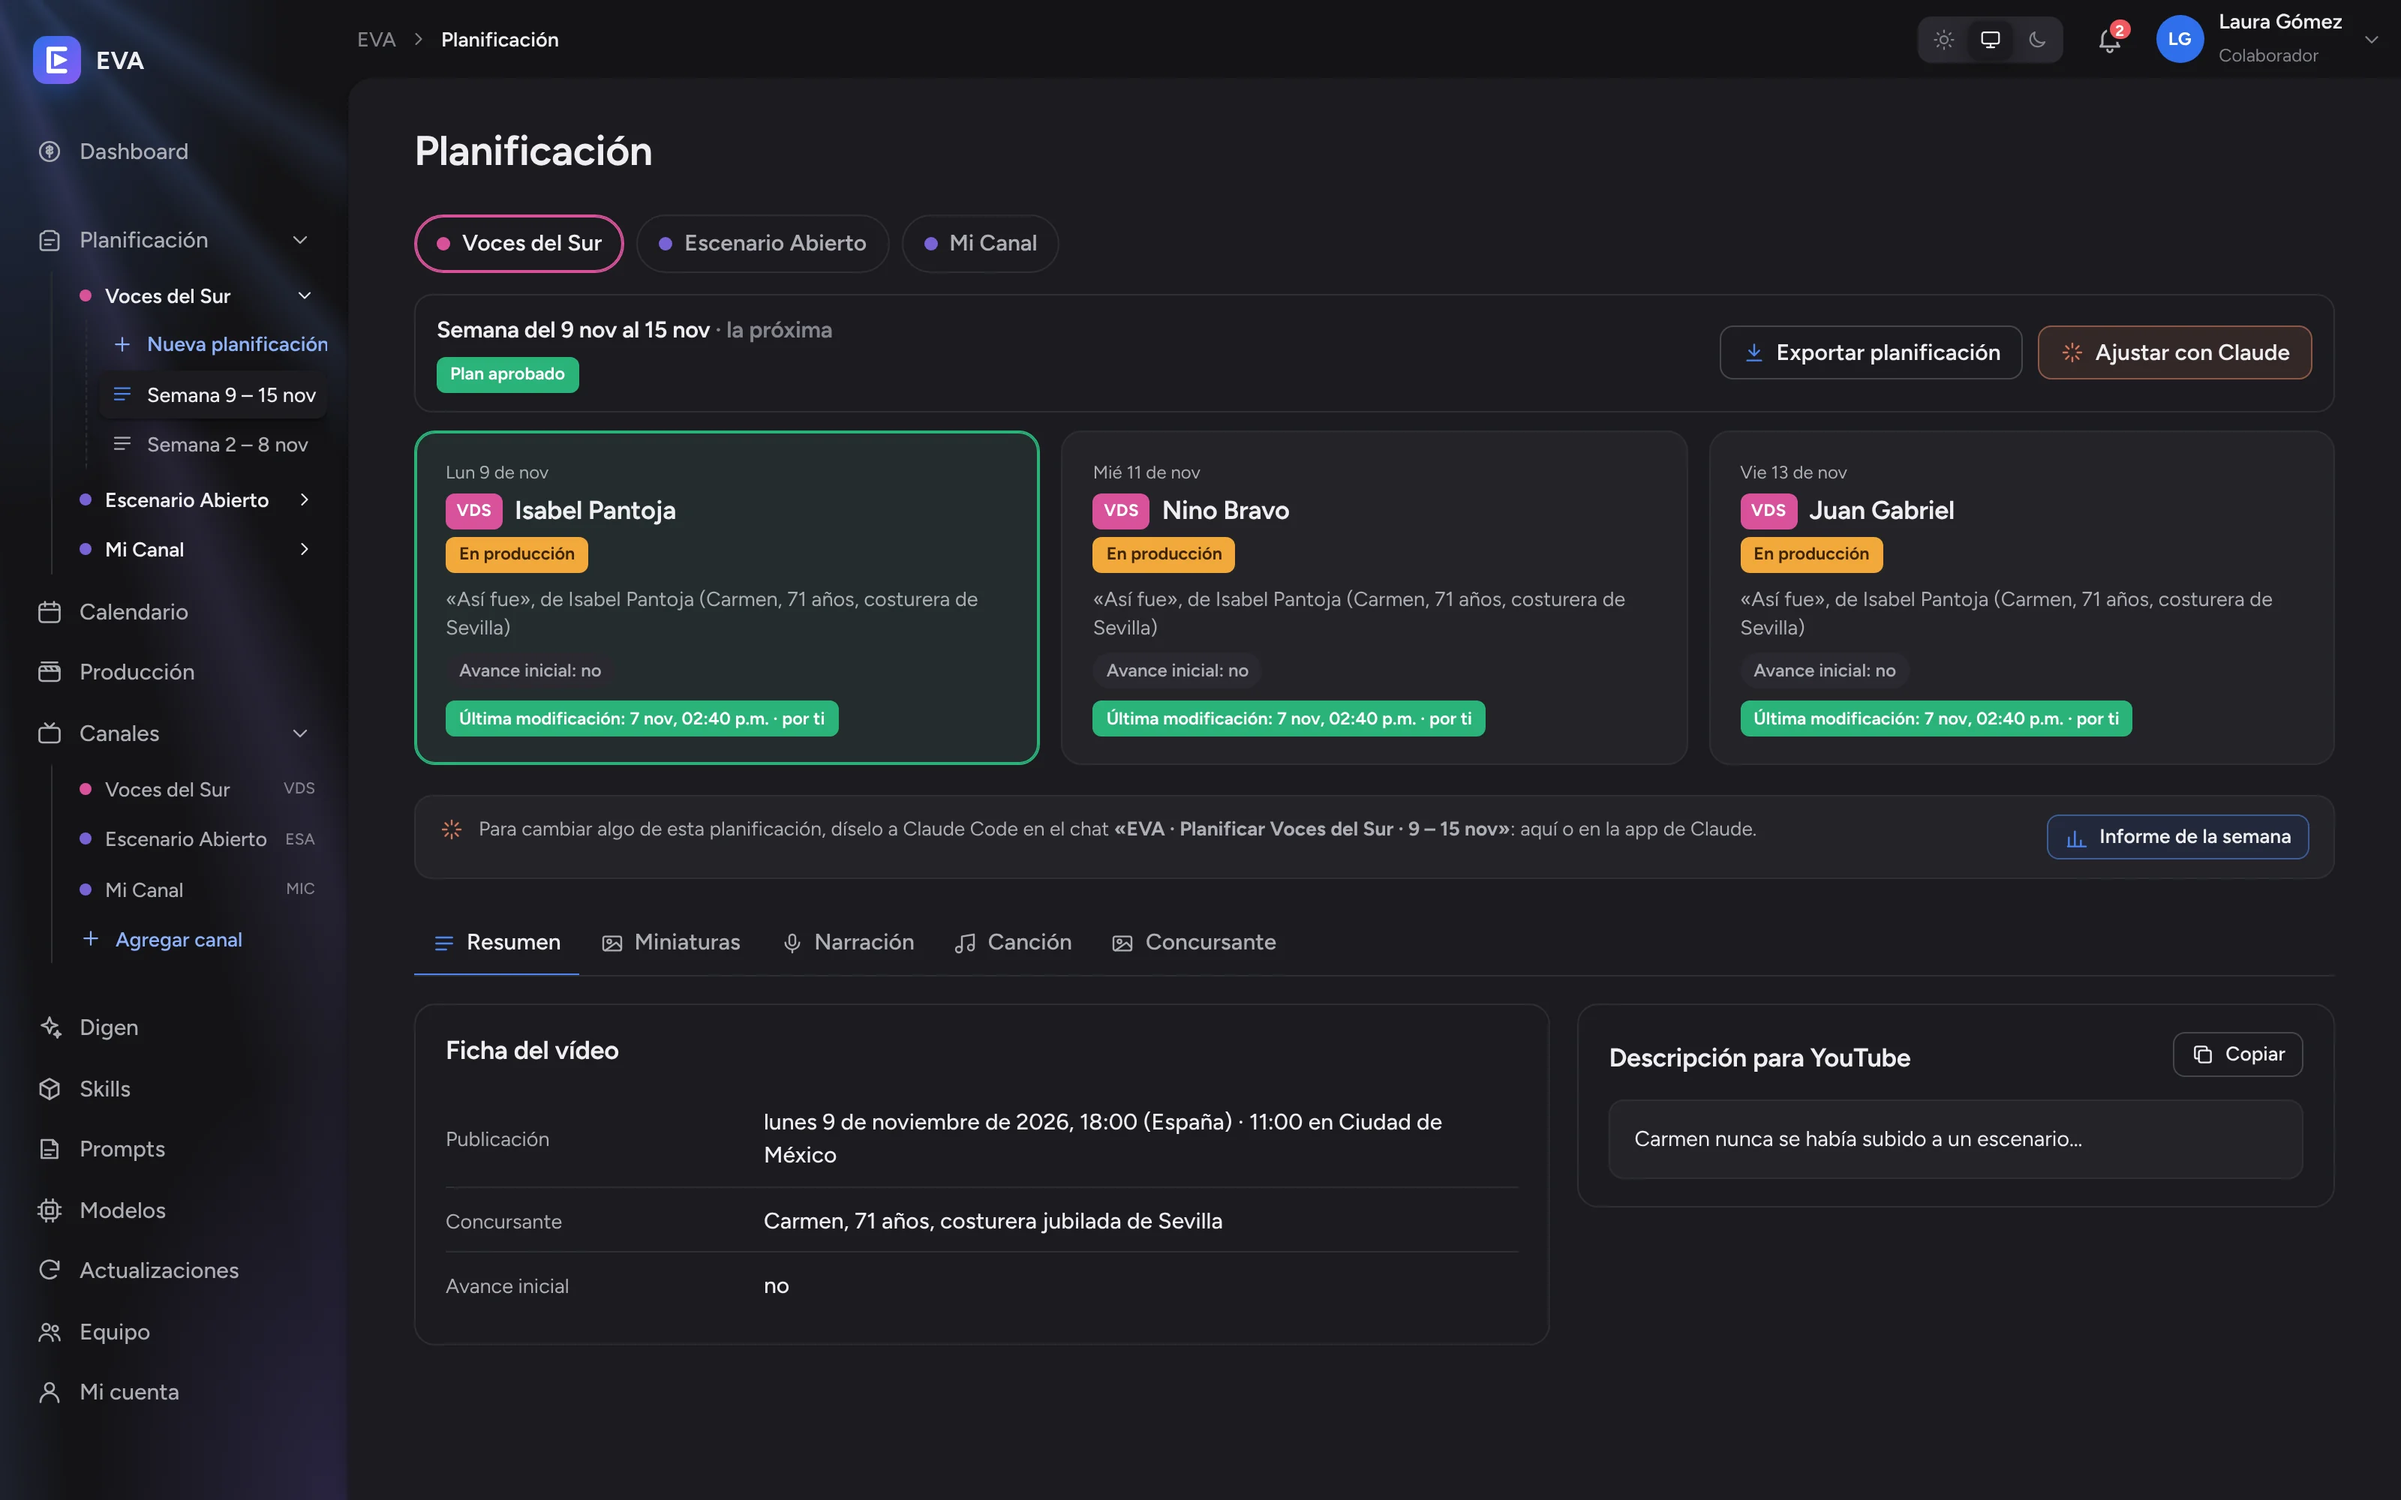
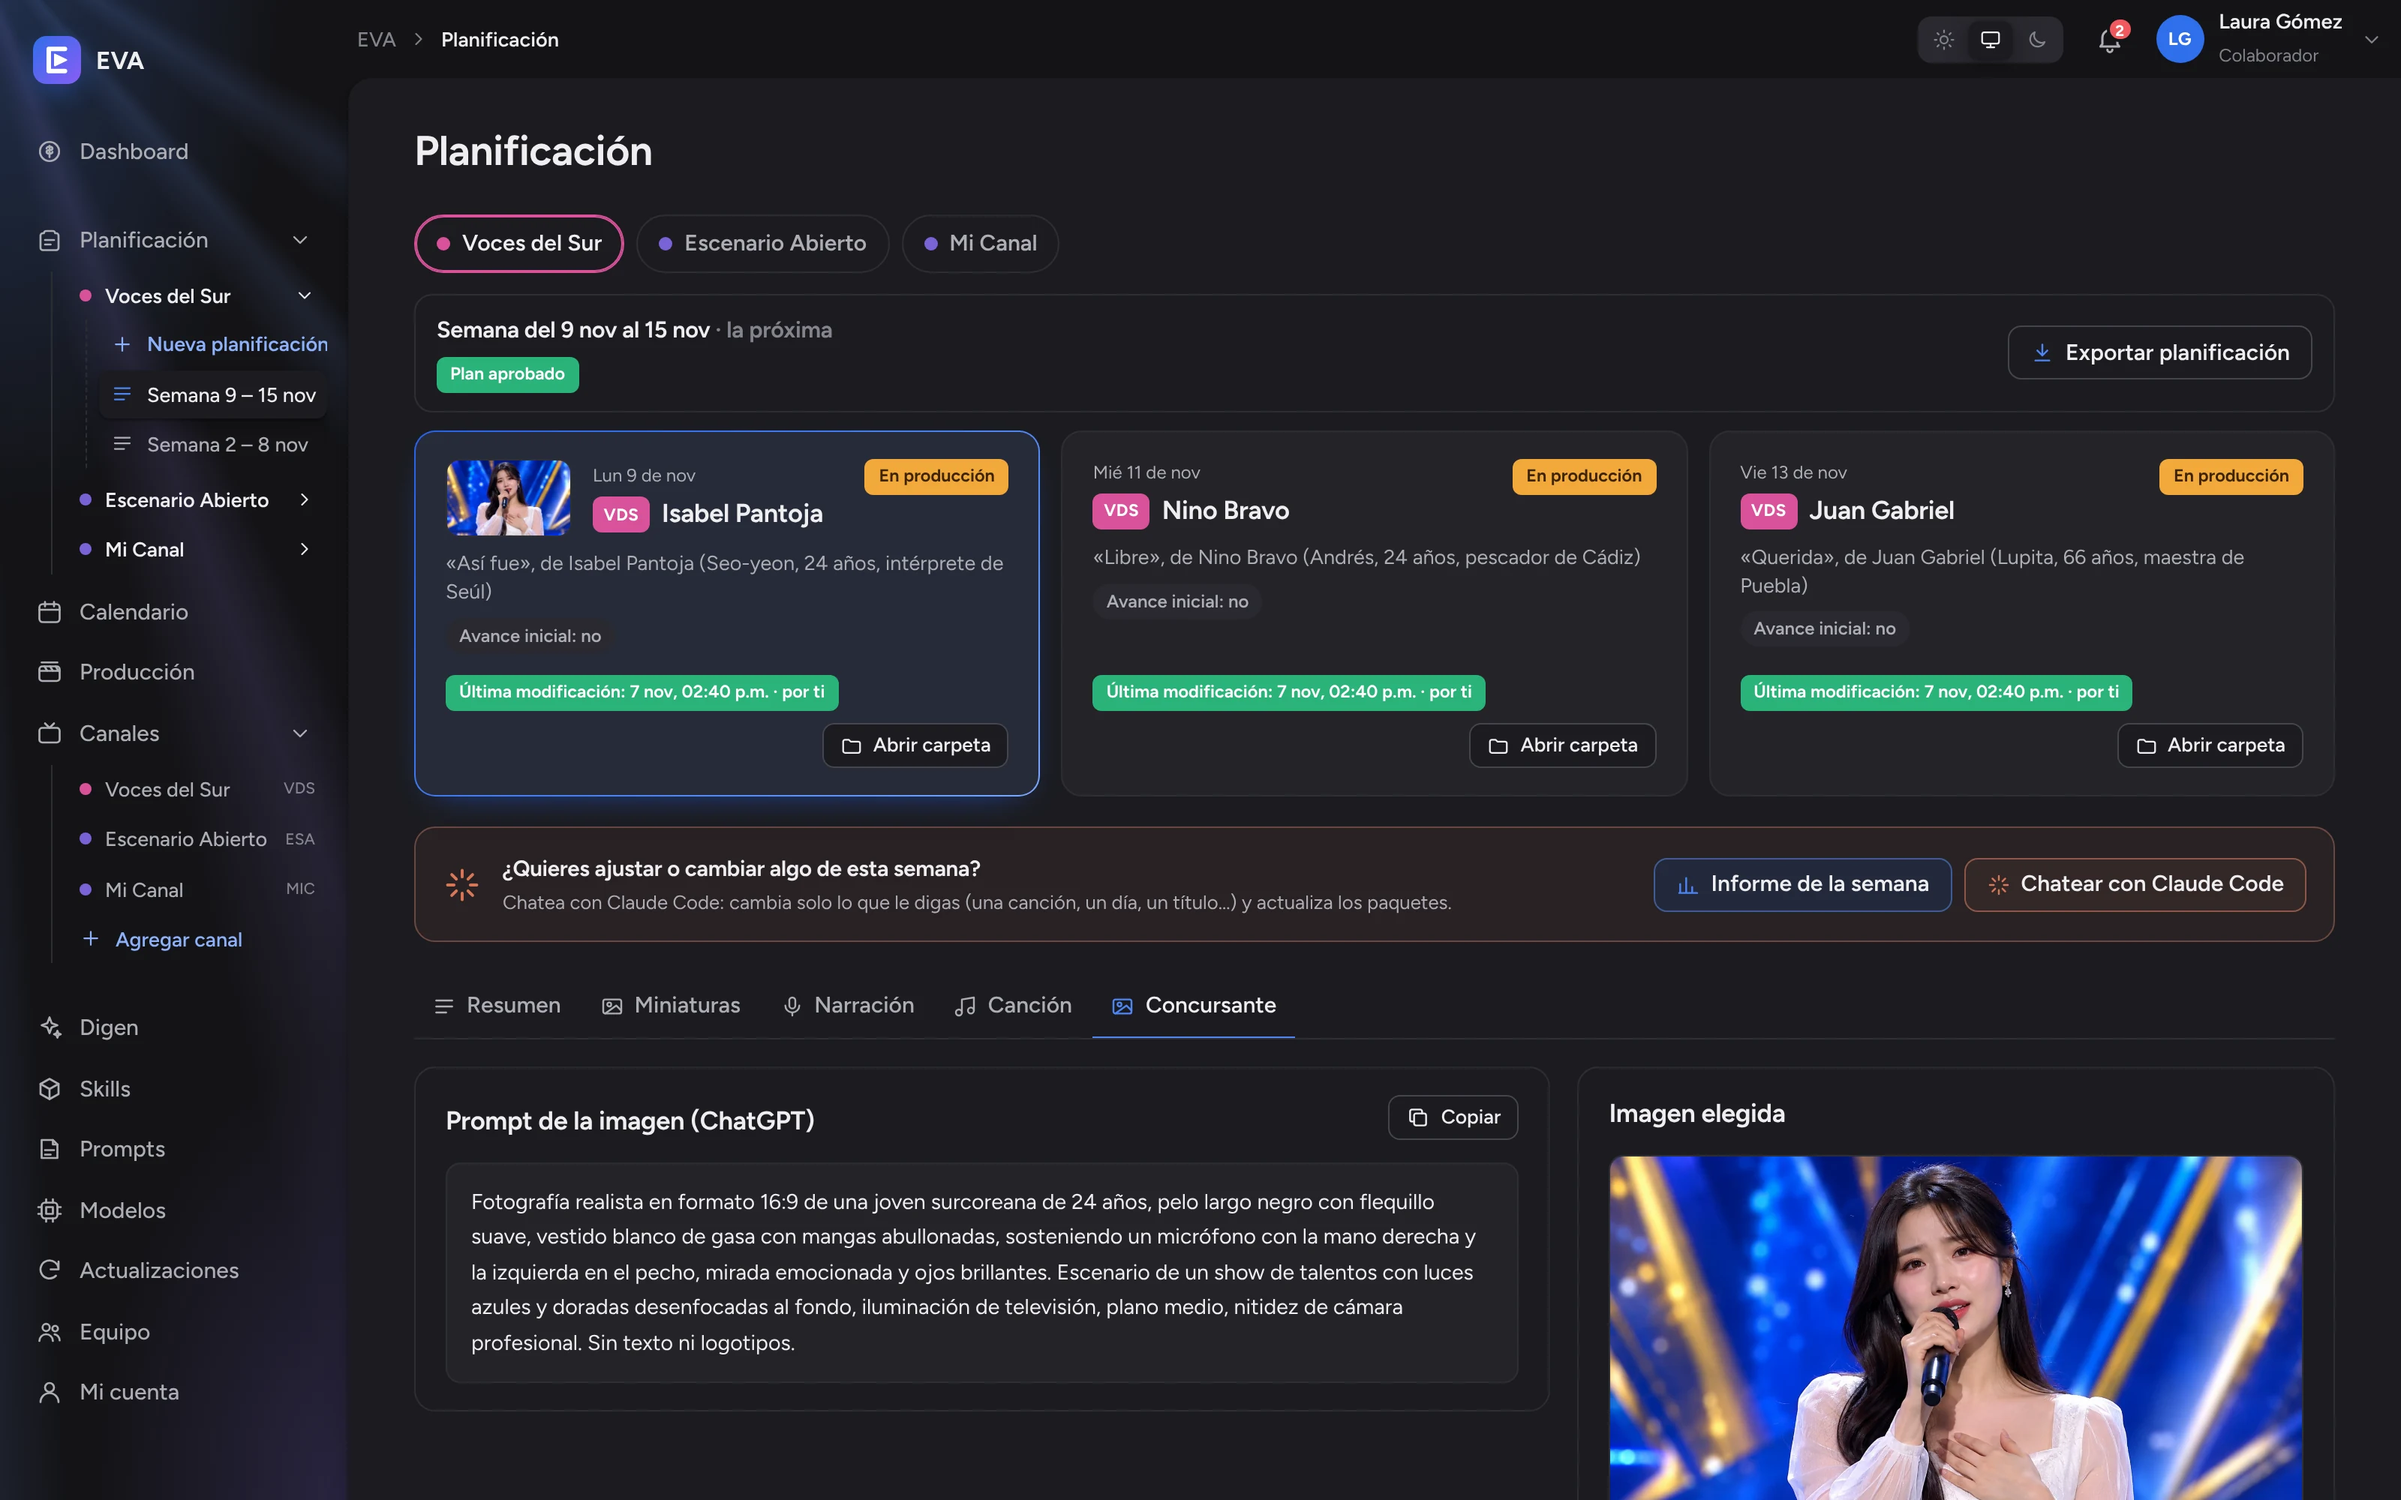
Web: captura nueva de Planificación (pestaña Concursante), Abrir carpeta y carpetas con la fecha real
Claude-Session: https://claude.ai/code/session_01Qcj249naK1yTNmgoBioSva

diff --git a/index.html b/index.html
@@ -799,19 +799,22 @@ footer .ancho{display:flex;flex-wrap:wrap;gap:12px;align-items:center;justify-co
 
         <article class="cap" id="semana">
           <header><span class="num">09</span><h3>Tu semana planificada</h3></header>
-          <p>Una vez aprobada, la semana queda en tarjetas: una por vídeo, con su día, artista y estado. Toca una para ver su <strong>paquete</strong>, la ficha completa del vídeo con todo lo necesario para producirlo, en las pestañas de abajo.</p>
-          <figure class="fig" data-callouts='[[21.5,16,"Canales",12,-11],[9.6,22.8,"Nueva planificación",1,24],[30,40,"Un vídeo de la semana",12,12],[78,23.4,"Exportar",-6,10],[90.5,23.4,"Ajustar con Claude",-4,-10],[90.6,55.6,"Informe de la semana",-8,10],[37.5,62.6,"Pestañas del vídeo",10,10]]'>
-            <div class="lienzo"><img src="img/planificacion.webp" width="3200" height="2000" alt="Planificación de una semana aprobada con tres tarjetas de vídeo" loading="lazy"></div>
+          <p>Una vez aprobada, la semana queda en tarjetas: una por vídeo, con su día, artista, estado y la foto del concursante cuando ya está en su carpeta. Toca una para ver su <strong>paquete</strong>, la ficha completa del vídeo con todo lo necesario para producirlo, en las pestañas de abajo.</p>
+          <figure class="fig" data-callouts='[[22.1,16.2,"Canales",10,-9],[8.9,22.9,"Nueva planificación",3,22],[30.3,39.7,"Un vídeo de la semana",14,-14],[90,23.5,"Exportar",-6,-9],[38.1,49.7,"Abrir carpeta",10,10],[88.9,59,"Chatear con Claude Code",-6,-12],[75.1,59,"Informe de la semana",-10,10],[50.4,67,"Pestañas del vídeo",-24,-9],[81.5,85,"Imagen del concursante",-30,5]]'>
+            <div class="lienzo"><img src="img/planificacion.webp" width="3200" height="2000" alt="Planificación de una semana aprobada: tres tarjetas de vídeo con el botón Abrir carpeta y, abajo, la pestaña Concursante con el prompt y la imagen elegida" loading="lazy"></div>
             <figcaption><ol class="leyenda">
-              <li><span class="c">1</span><span><b>Canales.</b> Cambia de canal sin salir de la semana.</span></li>
-              <li><span class="c">2</span><span><b>Nueva planificación.</b> Empieza la semana siguiente de ese canal.</span></li>
-              <li><span class="c">3</span><span><b>Tarjeta del vídeo.</b> Día, artista, estado y última modificación. Tócala para ver su paquete.</span></li>
+              <li><span class="c">1</span><span><b>Canales.</b> Cambia de canal sin salir de la semana; EVA recuerda lo último que viste de cada uno y lo enseña al instante.</span></li>
+              <li><span class="c">2</span><span><b>Nueva planificación.</b> Empieza la semana actual si el canal aún no tiene nada en ella, o la siguiente.</span></li>
+              <li><span class="c">3</span><span><b>Tarjeta del vídeo.</b> Día, artista, estado, foto del concursante y última modificación. Tócala para ver su paquete.</span></li>
               <li><span class="c">4</span><span><b>Exportar planificación.</b> Guarda los paquetes de la semana (un documento por vídeo) en la carpeta que elijas.</span></li>
-              <li><span class="c">5</span><span><b>Ajustar con Claude.</b> Abre la conversación para retocar un vídeo concreto sin rehacer la semana.</span></li>
-              <li><span class="c">6</span><span><b>Informe de la semana.</b> Cómo rindieron los vídeos ya publicados.</span></li>
-              <li><span class="c">7</span><span><b>Pestañas.</b> Todo el paquete del vídeo elegido.</span></li>
+              <li><span class="c">5</span><span><b>Abrir carpeta.</b> Abre la carpeta de ese vídeo en el Explorador de Windows, para dejar o revisar sus archivos sin buscarla. Si aún no existe en tu PC, EVA la crea.</span></li>
+              <li><span class="c">6</span><span><b>Chatear con Claude Code.</b> Para retocar algo de la semana (una canción, un día, un título) sin rehacerla entera.</span></li>
+              <li><span class="c">7</span><span><b>Informe de la semana.</b> Cómo rindieron los vídeos ya publicados.</span></li>
+              <li><span class="c">8</span><span><b>Pestañas.</b> Todo el paquete del vídeo elegido: aquí, la pestaña Concursante.</span></li>
+              <li><span class="c">9</span><span><b>Imagen del concursante.</b> El prompt para generarla en ChatGPT y, cuando la dejas en la carpeta del vídeo, la imagen elegida.</span></li>
             </ol></figcaption>
           </figure>
+          <div class="nota"><svg viewBox="0 0 24 24" fill="none" stroke="currentColor" stroke-width="2" stroke-linecap="round"><circle cx="12" cy="12" r="9"/><path d="M12 8v5M12 16.5v.01"/></svg><span><b>La carpeta lleva siempre el día real.</b> Cada carpeta de vídeo se llama con su canal, su fecha y su artista (por ejemplo <code>STE-2026-11-09-RocioDurcal</code>). Si un vídeo se mueve a otro día, al reprogramarlo o al replanificar, EVA renombra sola su carpeta con la fecha nueva, sin tocar nada de lo que tenga dentro. Solo espera si en ese momento se está editando o Digen está generando sus clips.</span></div>
           <h4>Qué hay en cada pestaña</h4>
           <div class="tabla-scroll">
           <table class="accesos">
@@ -821,7 +824,7 @@ footer .ancho{display:flex;flex-wrap:wrap;gap:12px;align-items:center;justify-co
               <tr><td>Miniaturas</td><td>Las variantes de título y miniatura para probar (A, B, C).</td></tr>
               <tr><td>Narración</td><td>El texto que se locuta, la narración con su reproductor, los ajustes de ElevenLabs recomendados (y editables) y los botones para generarla con una voz única o con una voz que ya tengas.</td></tr>
               <tr><td>Canción</td><td>La letra y el estilo de la canción del concursante, y el prompt de la música de fondo de la narración.</td></tr>
-              <tr><td>Concursante</td><td>La historia del personaje y la descripción para su imagen.</td></tr>
+              <tr><td>Concursante</td><td>El prompt de la imagen del concursante para ChatGPT y, cuando ya está en la carpeta, la imagen elegida.</td></tr>
             </tbody>
           </table>
           </div>
@@ -860,7 +863,7 @@ footer .ancho{display:flex;flex-wrap:wrap;gap:12px;align-items:center;justify-co
           <div class="arbol" aria-label="Ejemplo de carpetas">
             <div><span class="ic-carpeta"></span>Canales <em>tu carpeta de canales (Mi cuenta)</em></div>
             <div class="n1"><span class="ic-carpeta"></span>Voces del Sur <em>una por canal</em></div>
-            <div class="n2"><span class="ic-carpeta"></span>2026-11-09 Lunes - Isabel Pantoja <em>una por vídeo</em></div>
+            <div class="n2"><span class="ic-carpeta"></span>VDS-2026-11-09-IsabelPantoja <em>una por vídeo: canal, día y artista (con «Abrir carpeta» llegas directo)</em></div>
             <div class="n3 arch">concursante.jpg</div>
             <div class="n3 arch">narracion.mp3</div>
             <div class="n3 arch">cancion.mp3</div>
